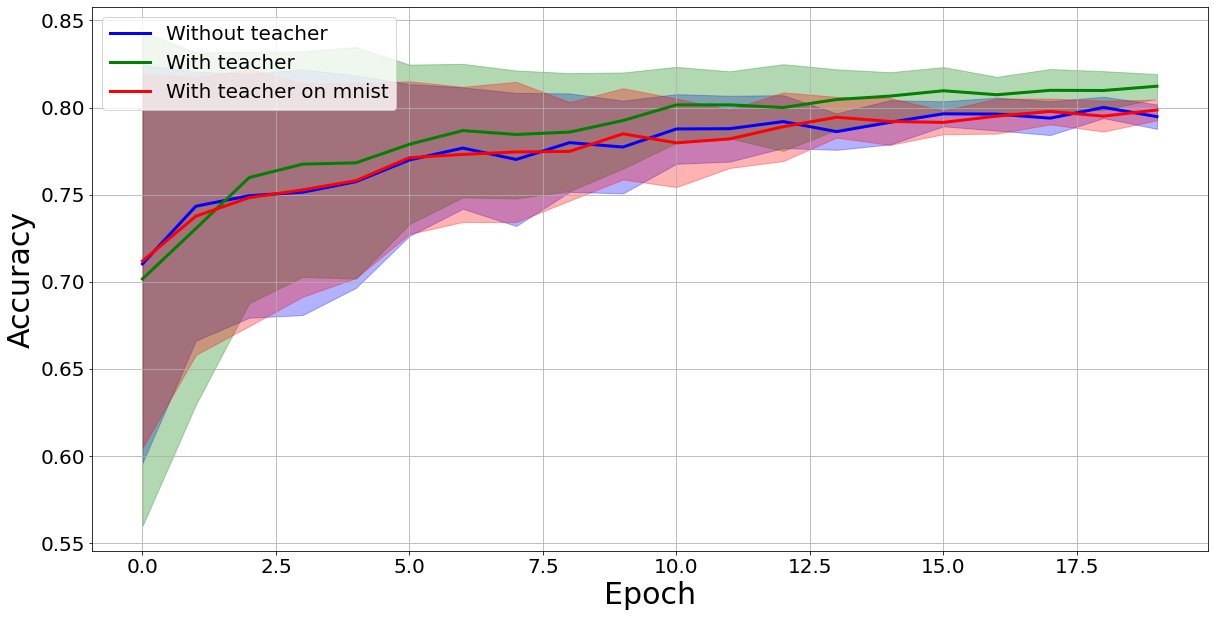
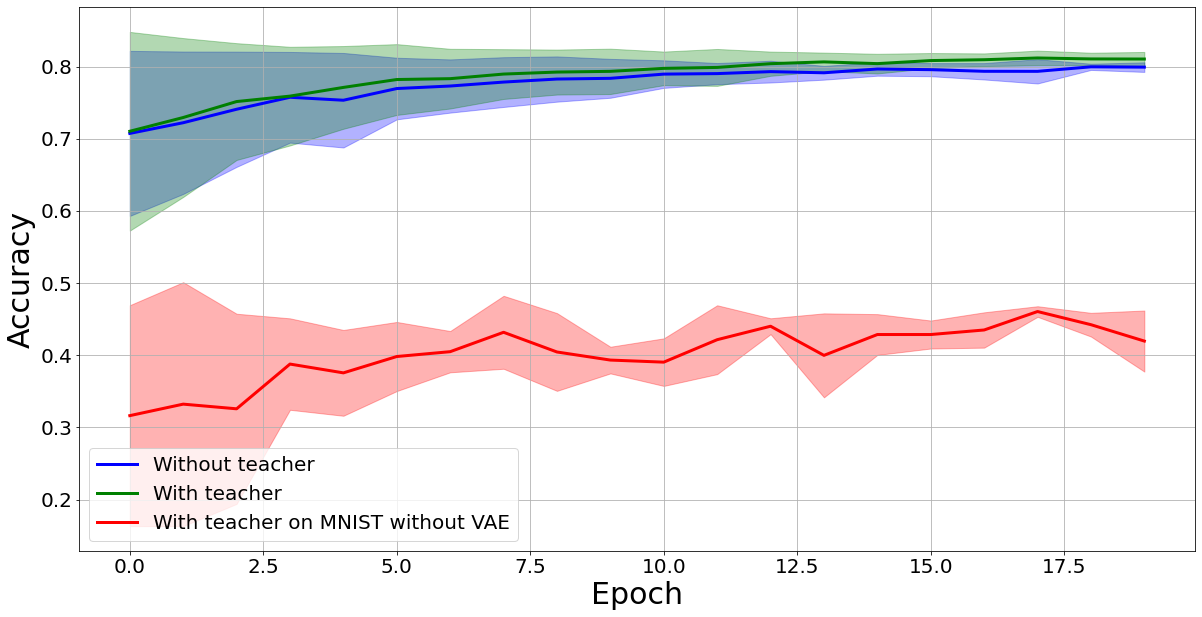
Updates from Overleaf

diff --git a/Text/experiment.tex b/Text/experiment.tex
@@ -5,46 +5,43 @@
 Для анализа моделей, полученных путем дистилляции модели учителя в модель ученика, проводится вычислительный эксперимент для задачи классификации.\\
 Эксперимент проводится для выборки FashionMNIST~\cite{FMNIST} - набора изображений предметов одежды. В качестве моделей учителя $\textbf{f}$ и ученика $\textbf{g}$ рассматриваются четырёхслойная и однослойная нейронные сети соответсвенно. Для решения оптимизационной задачи используется Adam, функция активации - ReLu.\\
 Выборка разделяется на 3 части: две для обучения многоресурного и малоресурсного доменов, а также тестовая часть выборки. Многоресурсная часть содержит 59000 объектов, малоресурсная часть содержит 1000 объектов, а тестовая часть содержит 10000 объектов.
-\newpage
+
 \subsection{Анализ дистилляции Хинтона}
 
 \paragraph{Обучение на обоих доменах.}
-Модель учителя и ученика обучаются на обоих доменах.\\
-На рис.1а показан график зависимости метрики accuracy на тестовой выборке между истинными метками объектов и вероятностями, предсказанными моделью ученика.\\
-На рис.1б показан график зависимости кросс-энтропии на тестовой выборке между истинными метками объектов и вероятностями, предсказанными моделью ученика.\\
-На графиках видно, что модель, использующая метки учителя, показывает лучшее значение accuracy, при этом наблюдается значительное снижение ошибки.
+Модели учителя и ученика обучаются на обоих доменах.\\
 \begin{figure}[h!t]\center
 \subfloat[]
 {\includegraphics[width=0.5\textwidth]{results/acc}}
 \subfloat[]
 {\includegraphics[width=0.5\textwidth]{results/loss}}\\
 \caption{Качество аппроксимации на тестовой выборке a) accuracy; b) CrossEntropyLoss между истинными и предсказанными учеником метками}
-\end{figure}
+\end{figure}\\
+На рис.1а показан график зависимости метрики accuracy на тестовой выборке между истинными метками объектов и вероятностями, предсказанными моделью ученика.\\
+На рис.1б показан график зависимости кросс-энтропии на тестовой выборке между истинными метками объектов и вероятностями, предсказанными моделью ученика.\\
+На графиках видно, что модель, использующая метки учителя, показывает лучшее значение accuracy, при этом наблюдается значительное снижение ошибки.
 
-\newpage
+
 \paragraph{Обучение на малоресурсном домене.}
 Модель учителя обучается на многоресурсном домене, а модель ученика обучается на малоресурсном домене.\\
-На рис.2а показан график зависимости метрики accuracy на тестовой выборке между истинными метками объектов и вероятностями, предсказанными моделью ученика.\\
-На рис.2б показан график зависимости кросс-энтропии на тестовой выборке между истинными метками объектов и вероятностями, предсказанными моделью ученика.\\
-На графиках видно, что модель, использующая метки учителя, показывает лучшее значение accuracy, при этом наблюдается снижение ошибки.
 \begin{figure}[h!t]\center
 \subfloat[]
 {\includegraphics[width=0.5\textwidth]{results/small_acc}}
 \subfloat[]
 {\includegraphics[width=0.5\textwidth]{results/small_loss}}\\
 \caption{Качество аппроксимации на тестовой выборке a) accuracy; b) CrossEntropyLoss между истинными и предсказанными учеником метками}
-\end{figure}
+\end{figure}\\
+На рис.2а показан график зависимости метрики accuracy на тестовой выборке между истинными метками объектов и вероятностями, предсказанными моделью ученика.\\
+На рис.2б показан график зависимости кросс-энтропии на тестовой выборке между истинными метками объектов и вероятностями, предсказанными моделью ученика.\\
+На графиках видно, что модель, использующая метки учителя, показывает лучшее значение accuracy, при этом наблюдается снижение ошибки.
 
 \newpage
 \paragraph{Обучение на выборке с шумом.}
-Добавим к многоресурсному домену нормальный шум $\mathcal{N}(0,0.08)$ и обучим на нем модель учителя. Модель ученика обучается на малоресурсном домене.
+Добавим к многоресурсному домену нормальный шум $\mathcal{N}(0,0.1)$ и обучим на нем модель учителя. Модель ученика обучается на малоресурсном домене.
 \begin{figure}[h!t]\center
 {\includegraphics[width=0.5\textwidth]{results/noise}}
 \caption{Сравнение объекта выборки до и после добавления шума}
 \end{figure}\\
-На рис.4а показан график зависимости метрики accuracy на тестовой выборке между истинными метками объектов и вероятностями, предсказанными моделью ученика.\\
-На рис.4б показан график зависимости кросс-энтропии на тестовой выборке между истинными метками объектов и вероятностями, предсказанными моделью ученика.\\
-На графиках видно, что значения accuracy и CrossEntropyLoss модели, использующей метки учителя на выборке с шумом, лежат между соответствующими значениями для модели без учителя и для модели, использующей метки учителя на выборке без шума.
 
 \begin{figure}[h!t]\center
 \subfloat[]
@@ -52,7 +49,10 @@
 \subfloat[]
 {\includegraphics[width=0.5\textwidth]{results/noise_loss}}\\
 \caption{Качество аппроксимации на тестовой выборке a) accuracy; b) CrossEntropyLoss между истинными и предсказанными учеником метками}
-\end{figure}
+\end{figure}\\
+На рис.4а показан график зависимости метрики accuracy на тестовой выборке между истинными метками объектов и вероятностями, предсказанными моделью ученика.\\
+На рис.4б показан график зависимости кросс-энтропии на тестовой выборке между истинными метками объектов и вероятностями, предсказанными моделью ученика.\\
+На графиках видно, что значения accuracy и CrossEntropyLoss модели, использующей метки учителя на выборке с шумом, лежат между соответствующими значениями для модели без учителя и для модели, использующей метки учителя на выборке без шума.
 
 \paragraph{Обучение на выборке с dilation.}
 Применим к многоресурсному домену сверточное преобразование с параметром $\text{dilation}=2$ и обучим на нем модель учителя. Модель ученика обучается на малоресурсном домене.\\
@@ -60,31 +60,69 @@
 {\includegraphics[width=0.5\textwidth]{results/dilation}}
 \caption{Сравнение объекта выборки до и после преобразования}
 \end{figure}\\
-На рис.6а показан график зависимости метрики accuracy на тестовой выборке между истинными метками объектов и вероятностями, предсказанными моделью ученика.\\
-На рис.6б показан график зависимости кросс-энтропии на тестовой выборке между истинными метками объектов и вероятностями, предсказанными моделью ученика.\\
-На графиках видно, что значения accuracy и CrossEntropyLoss модели, использующей метки учителя на выборке с преобразованием, лежат между соответствующими значениями для модели без учителя и для модели, использующей метки учителя на выборке без преобразования.
+
 \begin{figure}[h!t]\center
 \subfloat[]
 {\includegraphics[width=0.5\textwidth]{results/dilation_acc}}
 \subfloat[]
 {\includegraphics[width=0.5\textwidth]{results/dilation_loss}}\\
 \caption{Качество аппроксимации на тестовой выборке a) accuracy; b) CrossEntropyLoss между истинными и предсказанными учеником метками}
-\end{figure}
+\end{figure}\\
+На рис.6а показан график зависимости метрики accuracy на тестовой выборке между истинными метками объектов и вероятностями, предсказанными моделью ученика.\\
+На рис.6б показан график зависимости кросс-энтропии на тестовой выборке между истинными метками объектов и вероятностями, предсказанными моделью ученика.\\
+На графиках видно, что значения accuracy и CrossEntropyLoss модели, использующей метки учителя на выборке с преобразованием, лежат между соответствующими значениями для модели без учителя и для модели, использующей метки учителя на выборке без преобразования.
+
+\subsection{Вариационный автокодировщик}
+В качестве преобразования выборки FashionMNIST~\cite{FMNIST} будем использовать модель вариационного автокодировщика. Данная модель состоит из двух частей. Сначала строится вероятностоное распределение в скрытом пространстве, которое позволяет генерировать кодовые представления для одного объекта. Далее с помощью декодировщика строится вероятностное распределение, позволяющее генерировать реконструкци исходного объекта.\\
+\\
+$\mathbf{q_{\alpha}(z|x)}$-вероятностный кодировщик\\
+$\mathbf{p_{\beta}(\hat{x}|z)}$-вероятностный декодировщик\\
+$\mathbf{\mathcal{L}_{\text{VAE}}(\alpha, \beta)=\sum\limits_{i=1}^{l}\text{E}_{z\sim q_{\alpha}(z|x_{i})}\log{p_{\beta}(x_{i}|z)}dz-\text{KL}(q_{\alpha}(z|x_{i})||p(z))}$,\\
+\\
+$\mathbf{p(z)\sim \mathcal{N}(0,\sigma^{2}\mathbf{I})}$ - априорное распределение\\
+\\
+Получаем оптимизационную задачу:
+$$\hat{\alpha}, \hat{\beta} = \arg\max_{\alpha, \beta} \mathcal{L}(\alpha, \beta).$$
 
 \newpage
-\paragraph{Обучение на выборке MNIST.}
-Применим к многоресурсному домену преобразование, переводящие изображения одежды из выборки FashionMNIST~\cite{FMNIST} в изображения цифр из выборки MNIST, и обучим на нем модель учителя. Модель ученика обучается на малоресурсном домене.\\
+\subsection{Генерация отображения из FashionMNIST в MNIST}
+Воспользуемся моделью вариационного автокодировщика для преобразования изображений одежды из выборки FashionMNIST~\cite{FMNIST} в изображения цифр на основе выборки MNIST.\\
+Создадим синтетическую выборку, где каждому изображению одежды будет соответстовать случайное изображение цифры из того же класса.\\
 \begin{figure}[h!t]\center
-{\includegraphics[width=0.5\textwidth]{results/mnist}}
-\caption{Сравнение объекта выборки до и после преобразования}
+\subfloat[]
+{\includegraphics[width=0.5\textwidth]{results/fmnist_random_mnist.png}}
+\subfloat[]
+{\includegraphics[width=0.5\textwidth]{results/fmnist_vae_mnist.png}}\\
+\caption{a) Объекты синтетический выборки; b) Объекты исходной выборки до и после работы автокодировщика}
 \end{figure}\\
-На рис.8а показан график зависимости метрики accuracy на тестовой выборке между истинными метками объектов и вероятностями, предсказанными моделью ученика.\\
-На рис.8б показан график зависимости кросс-энтропии на тестовой выборке между истинными метками объектов и вероятностями, предсказанными моделью ученика.\\
-На графиках видно, что значения accuracy и CrossEntropyLoss модели, использующей метки учителя на выборке с преобразованием, почти не отличаются от соответствующих значений для модели без учителя.
+Далее, на основе данной выборки обучим модель вариационного автокодировщика, минимизируя ошибку между выходом модели и целевым значением - изображением цифры, соответствующего исходному объекту.\\
+Получили модель, генерирующую семейство новых объектов - изображений цифры для одного и того же изображения одежды.
+\newpage
+Посмотрим также на изменение выхода модели при изменении случайного вектора в скрытом представлении:\\
+\begin{figure}[h!t]\center
+{\includegraphics[width=0.5\textwidth]{results/10x10.png}}
+\caption{Зависимость выхода модели от изменения вектора в скрытом представлении}
+\end{figure}\\
+
+\subsection{Качество модели в зависимости от использования автокодировщика}
+Будем обучать модель учителя на выборке MNIST, а модель ученика на выборке FashionMNIST. При этом при обучении модели ученика будем использовать метки учителя, подавая ему на вход выход вариационного автокодировщика, переводящего изображения одежды в изображения цифр.\\
+\begin{figure}[h!t]\center
+\subfloat[]
+{\includegraphics[width=0.5\textwidth]{results/vae_acc}}
+\subfloat[]
+{\includegraphics[width=0.5\textwidth]{results/vae_loss}}\\
+\caption{Качество аппроксимации при использовании VAE на малодоменной выборке a) accuracy; b) CrossEntropyLoss между истинными и предсказанными учеником метками}
+\end{figure}\\
+Также для сравнения покажем качество аппроксимации без использования вариационного автокодировщика.\\
 \begin{figure}[h!t]\center
 \subfloat[]
 {\includegraphics[width=0.5\textwidth]{results/mnist_acc}}
 \subfloat[]
 {\includegraphics[width=0.5\textwidth]{results/mnist_loss}}\\
-\caption{Качество аппроксимации на тестовой выборке a) accuracy; b) CrossEntropyLoss между истинными и предсказанными учеником метками}
+\caption{Качество аппроксимации без использования VAE на малодоменной выборке a) accuracy; b) CrossEntropyLoss между истинными и предсказанными учеником метками}
 \end{figure}
+
+\newpage
+\subsection{Качество модели на сгенерированной выборке}
+Для каждого объекта малодоменной выборки сгенерируем 70 изображений цифр с помощью модели вариационного автокодировщика и создадим новую выборку из 70000 объектов.\\
+Модель ученика обучается на малодоменной выборке, модель учителя на новой выборке и используется при обучении ученика.

diff --git a/Text/introduction.tex b/Text/introduction.tex
@@ -4,7 +4,8 @@
 \section{Введение}
 Сбор и обработка наборов данных для каждой новой задачи и области являются чрезвычайно дорогими и трудоемкими процессами, и не всегда могут быть доступны достаточные данные для обучения. Цель данной работы заключается в понижении сложности модели машинного обучения при переходе к домену меньшей мощности. Для этого предлагается использовать два основных метода - дистилляция моделей и доменная адаптация.\\
 Дистилляция моделей машинного обучения использует метки модели с большим числом параметров для обучения модели с меньшим числом параметров. В~\cite{Hinton2015} рассматривается метод дистилляции, предложенной Дж.Хинтоном, с учетом меток учителя при помощи функции \text{softmax} с параметром температуры, а в~\cite{Vapnik2016} рассматривается объединение методов дистилляци, предложенной Дж.Хинтоном, и привилегированной информации, предложенной В.Вапником, в обобщенную дистилляцию. Дистиляцция моделей используется в широком классе задач. В~\cite{MDASR} рассматривается метод дистилляции моделей для задачи распознавания речи.\\
-Часто выборки могут состоять из объектов, которые можно разделить на домены. К примеру, можно составить отображение из множества реальных фотографий малой мощности во множество сгенерированных движком изображений, мощность которого естественно больше. Для задачи дистилляции, предложенной Дж.Хинтоном, исходный и целевой домены равны. Различные постановки задач доменной адаптации описываются в~\cite{DeepvisDA}, встречаются постановки с частично размеченным целевым доменом и неразмеченным вовсе. Таким образом, доменная адаптация использует размеченные данные нескольких исходных доменов для выполнения новых задач в целевом домене.\\
+Часто выборки могут состоять из объектов, которые можно разделить на домены. К примеру, можно составить отображение из множества реальных фотографий малой мощности во множество сгенерированных движком изображений, мощность которого естественно больше. Одним из самых простых примеров генерации новых изображений является работа модели вариационного автокодировщика, способного для одного и того же объекта строить вероятностное распределение, на основе которого можно получить целое семейство новых объектов. Для задачи дистилляции, предложенной Дж.Хинтоном, исходный и целевой домены равны. Различные постановки задач доменной адаптации описываются в~\cite{DeepvisDA}, встречаются постановки с частично размеченным целевым доменом и неразмеченным вовсе. Таким образом, доменная адаптация использует размеченные данные нескольких исходных доменов для выполнения новых задач в целевом домене.\\
 Типичной задачей дистилляции моделей на многодоменных выборках является задача машинного перевода текстов, описанная в~\cite{KimRush2016}.\\
-В качестве экспериментальных данных используются реальные данные и синтетическая выборка. В качестве реальных данных рассматривается выборка \text{FashionMnist}~\cite{FMNIST}, состоящая из изображений одежды, для которой требуется решить задачу классификации на 10 типов одежды.
+В качестве экспериментальных данных используются реальные данные и синтетическая выборка. В качестве реальных данных рассматривается выборка \text{FashionMnist}~\cite{FMNIST}, состоящая из изображений одежды, для которой требуется решить задачу классификации на 10 типов одежды.\\
+
 

diff --git a/Text/task.tex b/Text/task.tex
@@ -18,7 +18,7 @@ $$\hat{\mathbf{w}} = \arg\min_{\mathbf{w} \in \mathbb{W}} \mathcal{L}(\mathbf{w,
 
 \subsection{Постановка задачи дистилляции для многодоменной выборки}
 
-Заданы два домена: $$\mathbb{D}_{\text{s}}, \mathbb{D}_{\text{t}}$$ - исходный и целевой наборы данных. Для задачи дистилляции, предложенной Дж.Хинтоном, $\mathbb{D}_{\text{s}}=\mathbb{D}_{\text{t}}$. Предполагается, что числа объектов в доменах не совпадают: $$|\mathbb{X}_{\text{s}}| \gg |\mathbb{X}_{\text{d}}|$$
+Заданы два домена: $$\mathbb{D}_{\text{s}}, \mathbb{D}_{\text{t}}$$ - исходный и целевой наборы данных. Для задачи дистилляции, предложенной Дж.Хинтоном, $\mathbb{D}_{\text{s}}=\mathbb{D}_{\text{t}}$. Предполагается, что числа объектов в доменах не совпадают: $$|\mathbb{X}_{\text{s}}| \gg |\mathbb{X}_{\text{t}}|$$
 $\mathbb{Y}$ - множество целевых переменных.\\
 Пусть при этом задана модель учителя
 $$\textbf{f}: \mathbb{X}_{\text{s}} \rightarrow \mathbb{Y}, \ \text{где } \mathbf{f}-\text{модель учителя}$$
